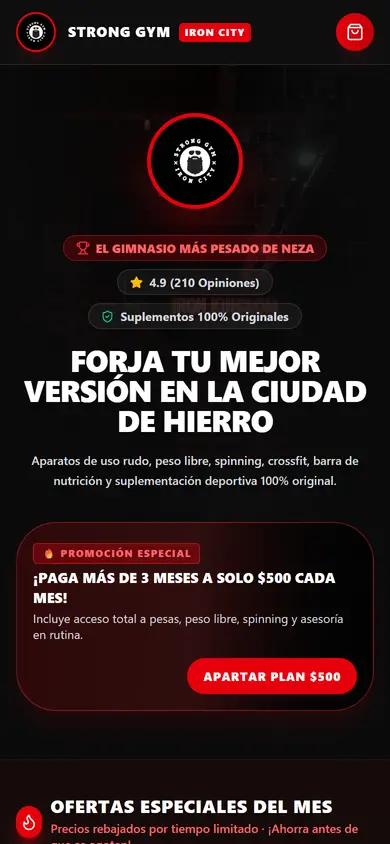
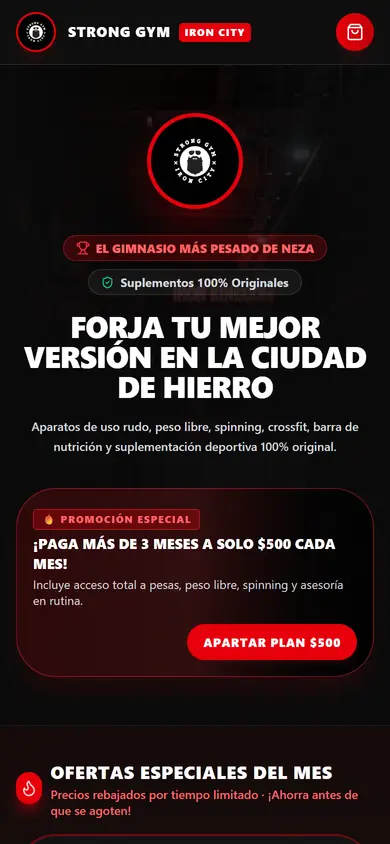
fix(strong-gym): ocultar calificación no verificada hasta confirmación real de Google Maps

Changed region(s): [[0.0308, 0.3081, 0.9538, 0.8626], [0.0308, 0.8934, 0.9231, 1.0], [0.9231, 0.5853, 0.9846, 0.6469]]

diff --git a/src/modules/strong-gym/pages/StrongGymMenu.tsx b/src/modules/strong-gym/pages/StrongGymMenu.tsx
@@ -227,9 +227,11 @@ export default function StrongGymMenu() {
             <span className="inline-flex items-center gap-1.5 px-3 py-1 rounded-full text-xs font-black bg-red-600/20 text-red-400 border border-red-500/30">
               <Trophy size={14} className="text-red-500" /> EL GIMNASIO MÁS PESADO DE NEZA
             </span>
-            <span className="inline-flex items-center gap-1.5 px-3 py-1 rounded-full text-xs font-bold bg-white/5 text-gray-300 border border-white/10">
-              <Star size={13} className="text-amber-400 fill-amber-400" /> {clientConfig.rating.score} (210 Opiniones)
-            </span>
+            {clientConfig.rating && (
+              <span className="inline-flex items-center gap-1.5 px-3 py-1 rounded-full text-xs font-bold bg-white/5 text-gray-300 border border-white/10">
+                <Star size={13} className="text-amber-400 fill-amber-400" /> {clientConfig.rating.score} ({clientConfig.rating.reviewsCount} Opiniones)
+              </span>
+            )}
             <span className="inline-flex items-center gap-1.5 px-3 py-1 rounded-full text-xs font-bold bg-white/5 text-gray-300 border border-white/10">
               <ShieldCheck size={13} className="text-emerald-400" /> Suplementos 100% Originales
             </span>

diff --git a/src/modules/strong-gym/config.ts b/src/modules/strong-gym/config.ts
@@ -56,11 +56,8 @@ export const clientConfig = {
   instagramHandle: '@strong_gym_ironcity',
 
   // Prueba social
-  rating: {
-    score: '4.9',
-    reviewsCount: 210,
-    recommendationRate: '90% recomendado',
-  },
+  // Solo poner la calificación REAL de Google Maps del gimnasio (René la confirma). Si es null, no se muestra.
+  rating: null as { score: string; reviewsCount: number; recommendationRate?: string } | null,
 
   // Paleta de marca de alta fidelidad: Rojo Hierro Vivo y Negro Mate Deportivo
   colors: {
